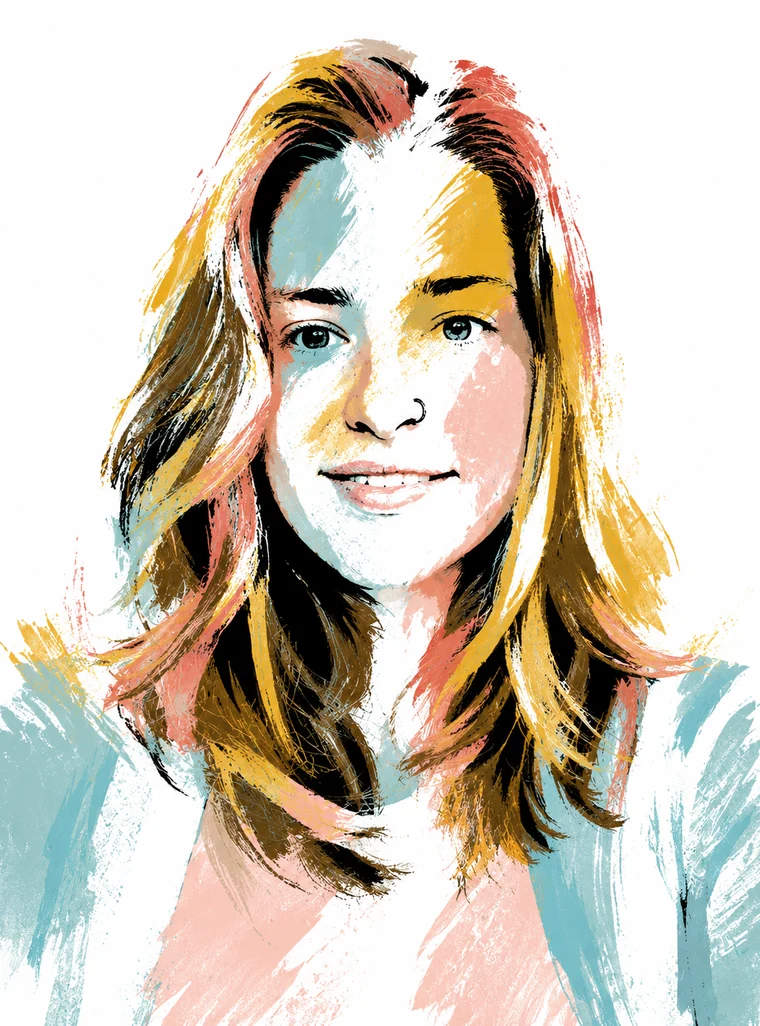
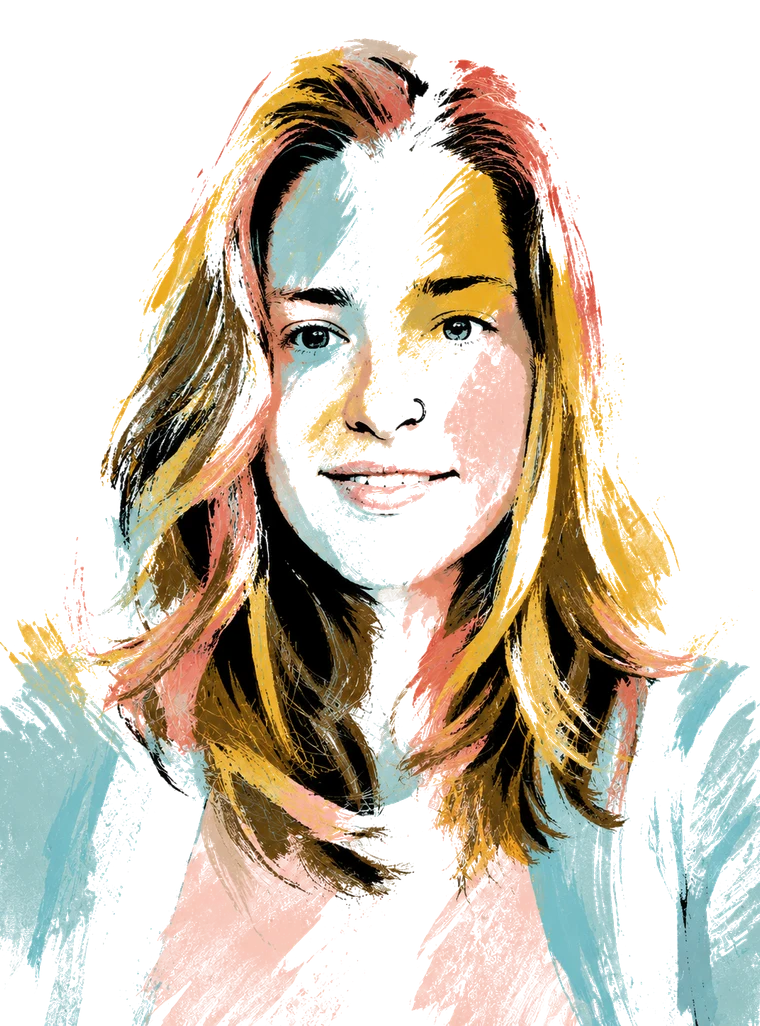
Cut out both portraits; dissolve the split seam instead of hard-cutting it

diff --git a/index.html b/index.html
@@ -366,23 +366,27 @@ section[id],header[id]{scroll-margin-top:84px}
 .split .left p{margin-left:auto}
 .split .right p{margin-right:auto}
 
-/* Two portraits of the same photo — one painted, one drawn in ASCII —
-   clipped to opposite halves. The seam slides toward whichever side
-   you hover, so the split is something you can push around. */
-.sfig{position:relative;margin:0;width:min(330px,74vw);aspect-ratio:760/1026;
-  justify-self:center;background:#fff;border:1px solid var(--rule);border-radius:18px;
-  overflow:hidden;box-shadow:0 2px 0 var(--rule2),0 18px 40px rgba(20,21,26,.10);
-  --seam:50%}
-.sh{position:absolute;inset:0;z-index:1;overflow:hidden;
-  transition:clip-path .55s var(--e)}
-.sh img{width:100%;height:100%;object-fit:cover;display:block}
-.sh.a{clip-path:inset(0 calc(100% - var(--seam)) 0 0)}
-.sh.b{clip-path:inset(0 0 0 var(--seam))}
-.sdiv{position:absolute;z-index:2;left:var(--seam);top:0;bottom:0;width:2px;
-  background:var(--ink);opacity:.16;transform:translateX(-1px);
-  transition:left .55s var(--e)}
-.split:has(.left:hover) .sfig,.split:has(.left:focus-within) .sfig{--seam:68%}
-.split:has(.right:hover) .sfig,.split:has(.right:focus-within) .sfig{--seam:32%}
+/* Two cut-out portraits of the same photo — one painted, one drawn in
+   ASCII — masked to opposite halves with an overlapping soft edge, so
+   they dissolve into one another rather than meeting at a hard line.
+   --seam is registered below so the crossfade can actually animate. */
+@property --seam{syntax:"<percentage>";initial-value:50%;inherits:true}
+.sfig{position:relative;margin:0;width:min(340px,76vw);aspect-ratio:760/1026;
+  justify-self:center;--seam:50%;
+  transition:--seam .6s var(--e);
+  filter:drop-shadow(0 18px 26px rgba(20,21,26,.14))}
+.sfig::before{content:"";position:absolute;z-index:0;left:50%;bottom:1%;
+  width:112%;aspect-ratio:1;transform:translateX(-50%);border-radius:50%;
+  background:radial-gradient(circle at 32% 46%,rgba(245,215,66,.30),transparent 60%),
+             radial-gradient(circle at 70% 50%,rgba(10,125,146,.20),transparent 60%)}
+.sh{position:absolute;inset:0;z-index:1}
+.sh img{width:100%;height:100%;object-fit:contain;display:block}
+.sh.a{-webkit-mask-image:linear-gradient(to right,#000 calc(var(--seam) - 9%),transparent calc(var(--seam) + 9%));
+              mask-image:linear-gradient(to right,#000 calc(var(--seam) - 9%),transparent calc(var(--seam) + 9%))}
+.sh.b{-webkit-mask-image:linear-gradient(to right,transparent calc(var(--seam) - 9%),#000 calc(var(--seam) + 9%));
+              mask-image:linear-gradient(to right,transparent calc(var(--seam) - 9%),#000 calc(var(--seam) + 9%))}
+.split:has(.left:hover) .sfig,.split:has(.left:focus-within) .sfig{--seam:76%}
+.split:has(.right:hover) .sfig,.split:has(.right:focus-within) .sfig{--seam:24%}
 .sl{transition:transform .4s var(--e)}
 .split:has(.left:hover) .left,.split:has(.right:hover) .right{transform:translateY(-3px)}
 @media(max-width:899px){
@@ -575,7 +579,6 @@ footer{padding:44px 0 56px;color:var(--dim);font-size:12.5px;display:flex;
         <span class="sh b"><img src="assets/daria-code.webp"
               alt="Daria Shchipanova, rendered in ASCII characters"
               width="760" height="1026" loading="lazy"></span>
-        <span class="sdiv"></span>
       </figure>
 
       <div class="sl right">
